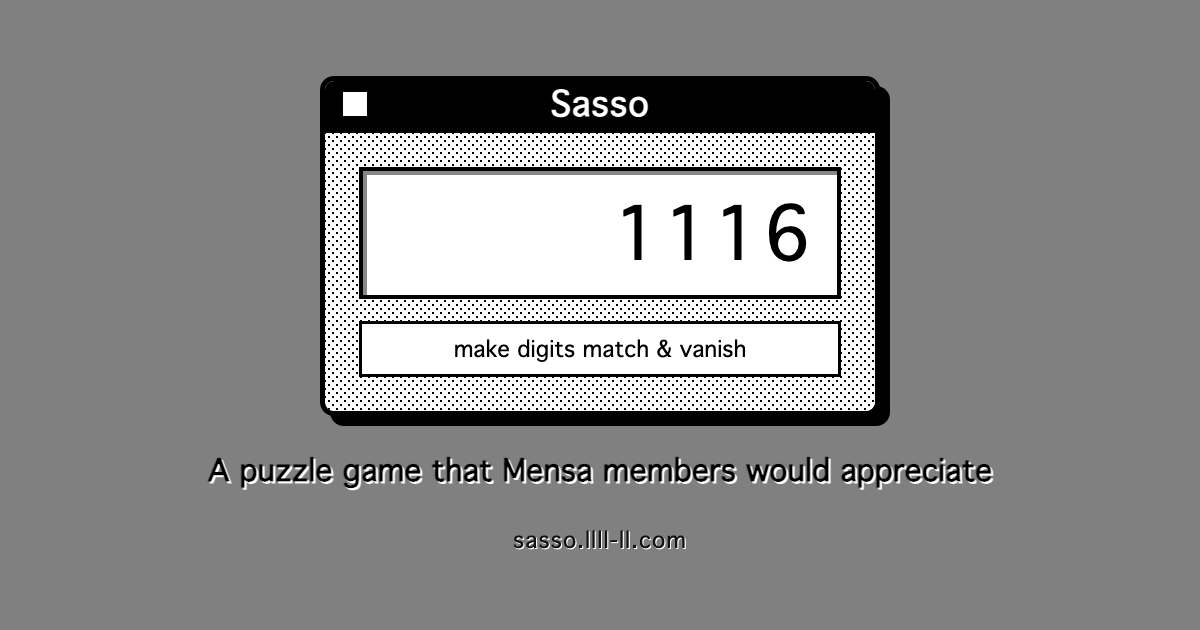
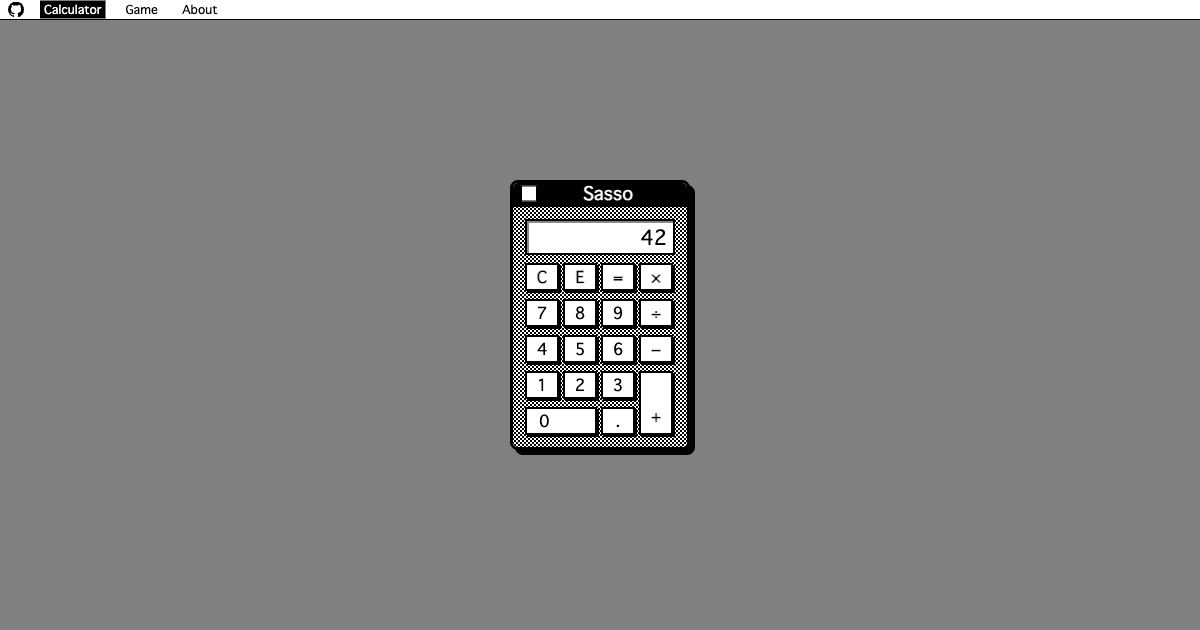
fix(ogp): use in-game calculator screen capture (display 42) as OG image (#25) (#26)
Replace the designed mockup card with an authentic 1200x630 capture of the
running game's calculator screen showing 42. The 'Sasso' wordmark is now the
game's own title-bar lettering rather than a modern font.

Closes #25

Changed region(s): [[0.1542, 0.1206, 0.8325, 0.7841], [0.0, 0.0, 1.0, 0.0302], [0.4317, 0.8444, 0.5858, 0.8746]]

diff --git a/docs/specification.md b/docs/specification.md
@@ -175,7 +175,7 @@ Static assets served from `public/` (copied verbatim into `dist/` by Vite):
 
 - `robots.txt` — allows all crawlers, references the sitemap, and disallows the ephemeral `/battle` room URLs
 - `sitemap.xml` — single canonical entry for `https://sasso.llll-ll.com/`
-- `og-image.png` — 1200×630 Classic Mac styled share card (used by Open Graph + Twitter `summary_large_image`)
+- `og-image.png` — 1200×630 capture of the in-game calculator screen (display showing `42`), used by Open Graph + Twitter `summary_large_image`
 
 `index.html` carries the canonical link, Open Graph / Twitter Card metadata, and a JSON-LD
 `VideoGame` block (rendered as an inline `<script type="application/ld+json">`). Canonical URL: